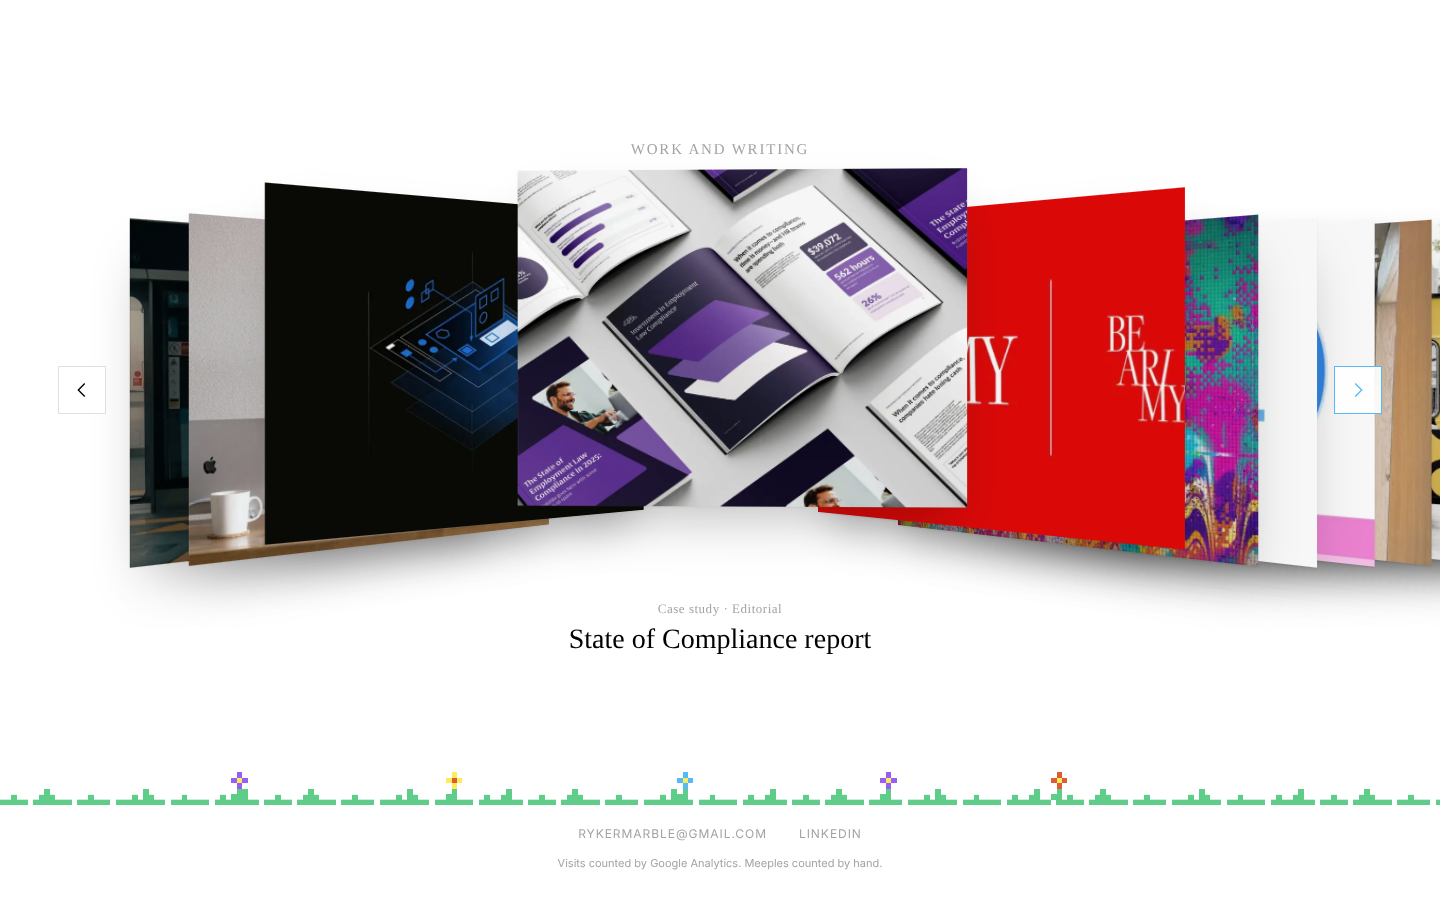
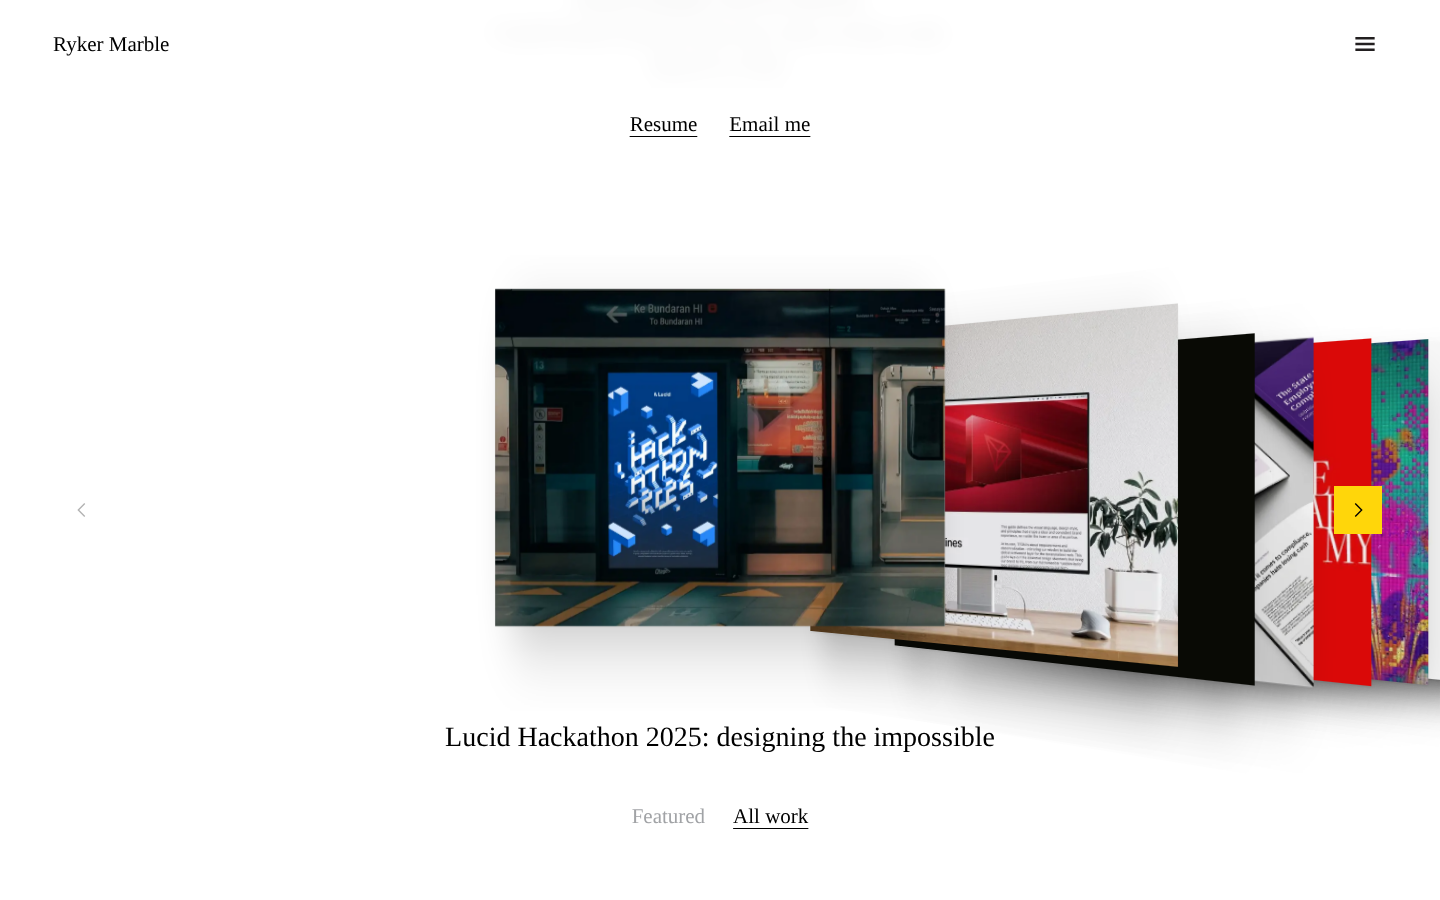
Smooth All work entrance: toggle stays put, cards start where they were, images reused; no arrow outline
Claude-Session: https://claude.ai/code/session_012okL6dvzymGUxin7fTu74p

diff --git a/components/Showcase.tsx b/components/Showcase.tsx
@@ -47,7 +47,14 @@ const ease = (t: number) => 1 - (1 - t) ** 3;
  * With reduced motion, or without JavaScript, it's a still grid of tiles
  * with titles. Placement lives in globals.css under `.showcase`.
  */
-export function Showcase({ items, from }: { items: ShowcaseItem[]; from?: DOMRect[] }) {
+export function Showcase({
+  items,
+  from,
+}: {
+  items: ShowcaseItem[];
+  /** Where the case study cards were, with `top` measured from the bottom of this section. */
+  from?: DOMRect[];
+}) {
   const sectionRef = useRef<HTMLDivElement>(null); // WorkSection has the heading
   const cardRefs = useRef<(HTMLLIElement | null)[]>([]);
   const [active, setActive] = useState(0);
@@ -70,7 +77,12 @@ export function Showcase({ items, from }: { items: ShowcaseItem[]; from?: DOMRec
     // those cards were on screen): they drop from there into the rack, then
     // the rest fill in from the right, one after another.
     const start = performance.now();
-    const stage = section.querySelector(".showcase-rack")!.getBoundingClientRect();
+    // The rack's centre, measured like `from`: x on screen, y from the
+    // section's bottom (the toggle under it, which stays put on screen).
+    const rack = section.querySelector(".showcase-rack")!.getBoundingClientRect();
+    const sectionBottom = section.getBoundingClientRect().bottom;
+    const cx = rack.left + rack.width / 2;
+    const cy = rack.top - sectionBottom + rack.height / 2;
     const entering = (i: number, now: number) => {
       if (!from) return 1;
       const delay = i < from.length ? i * 90 : 450 + (i - from.length) * 45;
@@ -108,10 +120,11 @@ export function Showcase({ items, from }: { items: ShowcaseItem[]; from?: DOMRec
         } else if (r) {
           // From where it sat in the stack (relative to the card's resting
           // spot, the centre of the rack) down into its place in the rack.
-          const fx = r.left + r.width / 2 - (stage.left + stage.width / 2);
-          const fy = r.top + r.height / 2 - (stage.top + stage.height / 2);
-          const fs = r.width / w;
-          card.style.transform = `translate3d(${lerp(fx, x, t)}px, ${lerp(fy, y, t)}px, ${lerp(0, z, t)}px) rotateY(${lerp(0, rot, t)}deg) scale(${lerp(fs, 1, t)})`;
+          // Scaled on each axis to the card's footprint in the stack, so it
+          // starts the same shape it was (wide and short, tipped).
+          const fx = r.left + r.width / 2 - cx;
+          const fy = r.top + r.height / 2 - cy;
+          card.style.transform = `translate3d(${lerp(fx, x, t)}px, ${lerp(fy, y, t)}px, ${lerp(0, z, t)}px) rotateY(${lerp(0, rot, t)}deg) scale(${lerp(r.width / w, 1, t)}, ${lerp(r.height / h, 1, t)})`;
         } else {
           card.style.transform = `translate3d(${x + (1 - t) * w * 1.2}px, ${y}px, ${z}px) rotateY(${rot}deg)`;
           card.style.opacity = String(t);
@@ -268,7 +281,10 @@ export function Showcase({ items, from }: { items: ShowcaseItem[]; from?: DOMRec
                     src={item.image}
                     alt={item.alt}
                     fill
-                    sizes="(min-width: 860px) 420px, 70vw"
+                    // The case study cards reuse the stack's image size (already
+                    // loaded), so they don't blank out on the way in.
+                    sizes={from && i < from.length ? "(min-width: 1104px) 1080px, 100vw" : "(min-width: 860px) 420px, 70vw"}
+                    loading={from ? "eager" : undefined}
                     draggable={false}
                   />
                 </span>

diff --git a/components/WorkSection.tsx b/components/WorkSection.tsx
@@ -22,7 +22,7 @@ export function WorkSection({ cases, all }: { cases: ShowcaseItem[]; all: Showca
   const [from, setFrom] = useState<DOMRect[] | null>(null);
   const stackRef = useRef<HTMLUListElement>(null);
   const toggleRef = useRef<HTMLDivElement>(null);
-  // Where the toggle was on screen before switching back to Featured.
+  // Where the toggle was on screen before switching views.
   const toggleTop = useRef<number | null>(null);
 
   // Fade the toggle in once it's on screen.
@@ -42,9 +42,10 @@ export function WorkSection({ cases, all }: { cases: ShowcaseItem[]; all: Showca
     return () => io.disconnect();
   }, []);
 
-  // The stack is shorter than the carousel, so switching back would pull the
-  // toggle up from under the cursor (and flip a card under it). Scroll so the
-  // toggle stays where it was.
+  // The stack and the carousel are different heights, so switching would move
+  // the toggle out from under the cursor and jump the page. Scroll so the
+  // toggle stays where it was. (The carousel's entrance is measured from the
+  // toggle too, so the cards start exactly where they were on screen.)
   useLayoutEffect(() => {
     const top = toggleTop.current;
     toggleTop.current = null;
@@ -59,11 +60,18 @@ export function WorkSection({ cases, all }: { cases: ShowcaseItem[]; all: Showca
   };
 
   const showAll = () => {
-    if (from) return;
-    // Where each case study card is now, so it can drop from there.
-    const cards = stackRef.current?.querySelectorAll(".case-stack-card") ?? [];
+    const stack = stackRef.current;
+    if (from || !stack) return;
+    toggleTop.current = toggleRef.current?.getBoundingClientRect().top ?? null;
+    // Where each case study card is now, relative to the bottom of the stack
+    // (the top of the toggle, which stays put), so it can drop from there.
+    const bottom = stack.getBoundingClientRect().bottom;
+    const cards = Array.from(stack.querySelectorAll(".case-stack-card"), (c) => {
+      const r = c.getBoundingClientRect();
+      return new DOMRect(r.left, r.top - bottom, r.width, r.height);
+    });
     // The stack is in reverse order (first case study at the front).
-    setFrom(Array.from(cards, (c) => c.getBoundingClientRect()).reverse());
+    setFrom(cards.reverse());
   };
 
   return (

diff --git a/app/globals.css b/app/globals.css
@@ -435,7 +435,9 @@ body {
   .showcase-stage {
     position: relative;
     height: calc(var(--card-h) + 220px);
-    overflow: clip;
+    /* Sideways only: the case study cards drop in from above the rack when
+       All work opens, and shouldn't be cut off on the way. */
+    overflow-x: clip;
   }
 
 
@@ -499,7 +501,7 @@ body {
     place-items: center;
     width: 48px;
     height: 48px;
-    border: 1px solid rgb(0 0 0 / 0.12);
+    border: 0;
     background: rgb(255 255 255 / 0.9);
     color: var(--color-ink);
     cursor: pointer;
@@ -526,7 +528,6 @@ body {
   }
 
   .showcase-arrow:hover {
-    border-color: var(--color-ink);
     background: var(--color-accent);
   }
 
